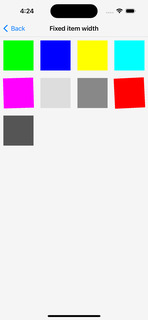
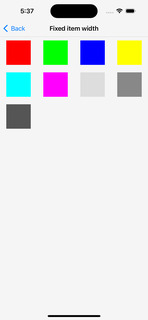
feat: updated Fixed item width example & Dynamic item width example doc: update example readme

diff --git a/example/src/routes/DynamicItemWidthScene/useDynamicItemWidthPageHooks.tsx b/example/src/routes/DynamicItemWidthScene/useDynamicItemWidthPageHooks.tsx
@@ -2,6 +2,10 @@ import { useCallback, useMemo, useState } from 'react'
 import { Dimensions } from 'react-native'
 import { IItem } from './modal'
 
+const screenWidth = Dimensions.get('window').width
+
+const minimunPadding = 20
+
 export default () => {
   const [data, setData] = useState<Array<IItem>>([
     { id: 0, color: '#FF0000' },
@@ -15,28 +19,37 @@ export default () => {
     { id: 8, color: '#555555' }
   ])
 
-  const [itemWidth, setItemWidth] = useState<number>(100)
+  const [componentSize, setComponentSize] = useState<number>(80)
 
-  const noColums = useMemo(
-    () => Math.floor(Dimensions.get('window').width / itemWidth),
-    [itemWidth]
+  const itemSize = useMemo(() => componentSize + minimunPadding, [componentSize])
+
+  const noColums = useMemo(() => Math.floor(screenWidth / itemSize), [itemSize])
+
+  /*
+   * user may scroll the list on space created by padding during editing
+   */
+  const paddingVertical = useMemo(() => minimunPadding / 2, [])
+
+  const paddingHorizontal = useMemo(
+    () => Math.floor((screenWidth / noColums - componentSize) / 2),
+    [componentSize, noColums]
   )
 
-  const itemHeight = useMemo(() => itemWidth + 20, [itemWidth]) // 20 stand for 10 top & 10 bottom padding from styles.itemContainer
+  const plusWidth = useCallback(() => setComponentSize(componentSize + 10), [componentSize])
 
-  const plusItemWidth = useCallback(() => setItemWidth(itemWidth + 10), [itemWidth])
-
-  const minusItemWidth = useCallback(() => setItemWidth(itemWidth - 10), [itemWidth])
+  const minusWidth = useCallback(() => setComponentSize(componentSize - 10), [componentSize])
 
   const onOrderChanged = useCallback((orderedData: Array<IItem>) => setData(orderedData), [])
 
   return {
     data,
     noColums,
-    itemWidth,
-    itemHeight,
-    plusItemWidth,
-    minusItemWidth,
+    componentSize,
+    itemSize,
+    paddingVertical,
+    paddingHorizontal,
+    plusWidth,
+    minusWidth,
     onOrderChanged
   }
 }

diff --git a/example/src/routes/DynamicItemWidthScene/DynamicItemWidthPage.tsx b/example/src/routes/DynamicItemWidthScene/DynamicItemWidthPage.tsx
@@ -7,30 +7,39 @@ import styles from './styles'
 import useDynamicItemWidthPageHooks from './useDynamicItemWidthPageHooks'
 
 const DynamicItemWidthPage = () => {
-  const { data, noColums, itemWidth, itemHeight, minusItemWidth, plusItemWidth, onOrderChanged } =
-    useDynamicItemWidthPageHooks()
+  const {
+    data,
+    noColums,
+    componentSize,
+    itemSize,
+    paddingVertical,
+    paddingHorizontal,
+    plusWidth,
+    minusWidth,
+    onOrderChanged
+  } = useDynamicItemWidthPageHooks()
 
   const renderItem = ({ item }: { item: IItem }) => {
-    return <Item item={item} itemWidth={itemWidth} />
+    return <Item item={item} componentSize={componentSize} />
   }
 
   return (
     <View style={styles.bg}>
       <View style={styles.btnWrapper}>
-        <TouchableOpacity onPress={minusItemWidth}>
+        <TouchableOpacity onPress={minusWidth}>
           <Text style={styles.text}>-</Text>
         </TouchableOpacity>
-        <Text style={styles.text}>{itemWidth}</Text>
-        <TouchableOpacity onPress={plusItemWidth}>
+        <Text style={styles.text}>{componentSize}</Text>
+        <TouchableOpacity onPress={plusWidth}>
           <Text style={styles.text}>+</Text>
         </TouchableOpacity>
       </View>
       <DraggableGridView
         contentContainerStyle={styles.contentContainer}
-        itemContainerStyle={styles.itemContainer}
+        itemContainerStyle={{ paddingVertical, paddingHorizontal }}
         isEditing={true}
         numColumns={noColums}
-        itemHeight={itemHeight}
+        itemHeight={itemSize}
         data={data}
         shouldAnimOnRelease={true}
         keyExtractor={({ id }) => `${id}`}

diff --git a/example/src/routes/FixedItemWidthScene/useFixedItemWidthPageHooks.tsx b/example/src/routes/FixedItemWidthScene/useFixedItemWidthPageHooks.tsx
@@ -1,6 +1,6 @@
 import { useCallback, useMemo, useState } from 'react'
 import { Dimensions } from 'react-native'
-import { itemWidth } from './constants'
+import { componentWidth } from './constants'
 import { IItem } from './modal'
 
 export default () => {
@@ -16,9 +16,14 @@ export default () => {
     { id: 8, color: '#555555' }
   ])
 
-  const noColums = useMemo(() => Math.floor(Dimensions.get('window').width / itemWidth), [])
+  const itemWidth = useMemo(() => componentWidth + 20, []) // 20 stand for 10 top & 10 bottom padding from styles.itemContainer
 
-  const itemHeight = useMemo(() => itemWidth + 20, []) // 20 stand for 10 top & 10 bottom padding from styles.itemContainer
+  const noColums = useMemo(
+    () => Math.floor(Dimensions.get('window').width / itemWidth),
+    [itemWidth]
+  )
+
+  const itemHeight = useMemo(() => itemWidth, [itemWidth])
 
   const onOrderChanged = useCallback((orderedData: Array<IItem>) => setData(orderedData), [])
 

diff --git a/example/src/routes/DynamicItemWidthScene/components/Item.tsx b/example/src/routes/DynamicItemWidthScene/components/Item.tsx
@@ -2,8 +2,10 @@ import React, { memo } from 'react'
 import { View } from 'react-native'
 import { IItem } from '../modal'
 
-const Item = ({ item, itemWidth }: { item: IItem; itemWidth: number }) => {
-  return <View style={{ width: itemWidth, height: itemWidth, backgroundColor: item.color }} />
+const Item = ({ item, componentSize }: { item: IItem; componentSize: number }) => {
+  return (
+    <View style={{ width: componentSize, height: componentSize, backgroundColor: item.color }} />
+  )
 }
 
 export default memo(Item)

diff --git a/example/src/routes/FixedItemWidthScene/components/styles.tsx b/example/src/routes/FixedItemWidthScene/components/styles.tsx
@@ -1,10 +1,10 @@
 import { StyleSheet } from 'react-native'
-import { itemWidth } from '../constants'
+import { componentWidth } from '../constants'
 
 const styles = StyleSheet.create({
   item: {
-    width: itemWidth,
-    height: itemWidth
+    width: componentWidth,
+    height: componentWidth
   }
 })
 

diff --git a/example/src/routes/FixedItemWidthScene/FixedItemWidthPage.tsx b/example/src/routes/FixedItemWidthScene/FixedItemWidthPage.tsx
@@ -25,6 +25,7 @@ const FixedItemWidthPage = () => {
       keyExtractor={({ id }) => `${id}`}
       onOrderChanged={onOrderChanged}
       renderItem={renderItem}
+      shouldVibrate={false}
     />
   )
 }

diff --git a/example/src/routes/DynamicItemWidthScene/styles.tsx b/example/src/routes/DynamicItemWidthScene/styles.tsx
@@ -21,7 +21,7 @@ const styles = StyleSheet.create({
     justifyContent: 'flex-start'
   },
   itemContainer: {
-    padding: 10
+    padding: 10 // minimunPadding / 2
   }
 })
 

diff --git a/example/src/routes/FixedItemWidthScene/constants.ts b/example/src/routes/FixedItemWidthScene/constants.ts
@@ -1,1 +1,1 @@
-export const itemWidth = 80 // free feel to change this value
+export const componentWidth = 65 // free feel to change this value

diff --git a/example/README.md b/example/README.md
@@ -29,7 +29,7 @@
 
 ## Fixed item width example
 
-### Gird view with fixed item width(80) on difference devices.
+### Gird view with fixed item width (65) and fixed padding (10) on difference devices.
 
 [./example/src/routes/FixedItemWidthScene](./src/routes/FixedItemWidthScene)\
 ![](./__doc__/fixedItemIPhonePro.jpg)
@@ -37,7 +37,7 @@
 
 ## Dynamic item width example
 
-### Gird view with dynamic item width(init 100).
+### Gird view with dynamic item width (init 80), dynamic horrizontal padding (min 10) and fixed vertical padding (10).
 
 [./example/src/routes/DynamicItemWidthScene](./src/routes/DynamicItemWidthScene)\
 ![](./__doc__/dynamicItemWidth.gif)
